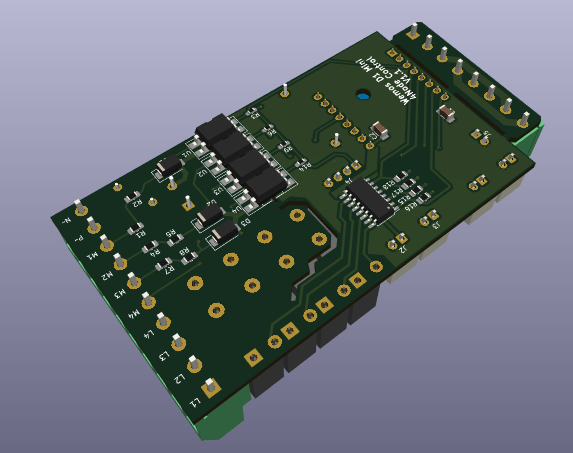
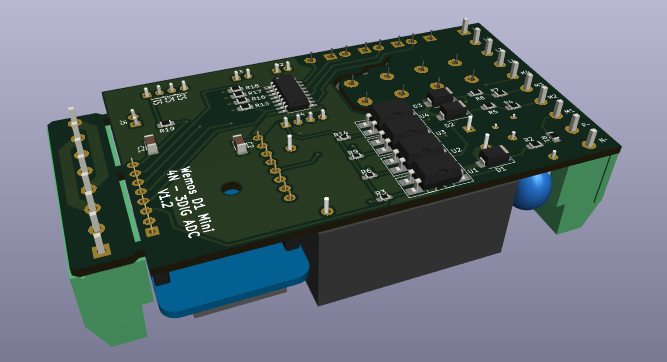
ReadMe updates

diff --git a/README.md b/README.md
@@ -15,21 +15,25 @@
 This board is designed as a multi-purpose board which can help in using the standard Wemos D1 Mini board based on ESP8266 to a 4 relay smart control unit. 
 The relays are miniature in size which can control upto 5A, 250AC (or 7A, based on which unit you used). It has 4 inputs which can be connected to AC switch and 4 outputs can be connected to loads. The board can be fitted behind the switchboard as an after market fit without rewiring, provided there is a neutral line available. 
 
-Additional taping points are added for using the device in many other configurations. Due to limited inputs, there is also 2 digital switch support based on ADC divider circuit provisioned. 
+Additional taping points are added for using the device in many other configurations. Due to limited inputs, there is also 3 digital switch support based on ADC divider circuit provisioned. 
 
 ## 🖼 Screenshots
+
+![Top View - PCB](Pics/top0.png)
 ![Top View 1](Pics/top1.png)
 ![Top View 2](Pics/top2.png)
-![Bottom View](Pics/bottom1.png)
+
+![Bottom View - PCB](Pics/bottom0.png)
+![Bottom View 1](Pics/bottom1.png)
 
 ## 🚀 Usage
 The design was done for using with Tasmota firmware, but user can use any firmware which can support the below configuraton.
-- Inputs: D0, D1, D2, D3 and ADC (with voltage divider option for 2 digital pins)
+- Inputs: D0, D1, D2, D3 and ADC (with voltage divider option for 3 digital pins)
 - Outputs: D5, D5, D7 and D8
 
   Note: D3 has a pull-up and boot fails if pulled down during power on. 
 
-D0 to D3 supports AC detection circuit. For using ADC divider based configuration, connect one switch between +3.3 and R21 (J6), second switch between R22 and ground (J7). All combinations of J6/J7 key presses and short circuits (SCB/SCG) are detectable via different ADC values if the default specified resistors are used. 
+D0 to D3 supports AC detection circuit. For using ADC divider based configuration, connect three switches between the marked joints (S1,S2,S3). All combinations of key presses and short circuits (SCB/SCG) are detectable via different ADC values if the default specified resistors are used. Other combinations could be used if only one or two switches are needed. 
 
 ## ⚙ Configuration for Tasmota
 Following configuration can be used for Tasmota firmware.
